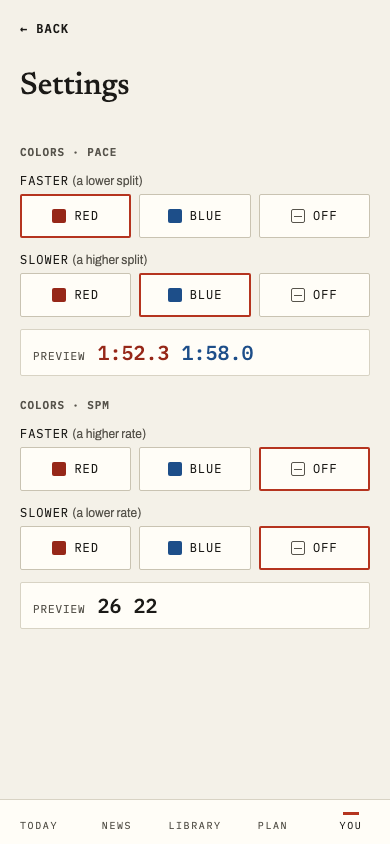
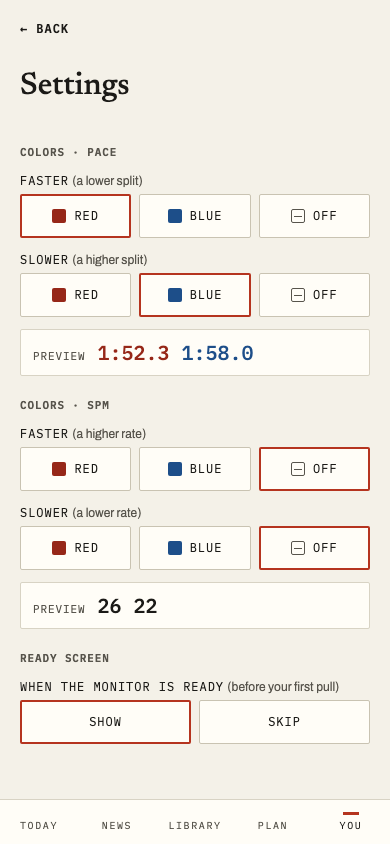
Task 6b: Just Row's e2e legs, the design assertion, and the recaptured settings screen
Three Just Row legs, all on motionless fixtures for the reason
`connected.spec.ts`'s RN block measured: a rowing frame opens the run, and an
open run renders the surface whatever the setting says.

The third is Gate 0 ruling 2 in a real browser. One WAITTOBEGIN frame arms the
frame watchdog and carries distance 0, so no run opens; the silence after it
crosses the 2500 ms threshold, which is `lost` at phase ready. Removing the
guard makes exactly that leg fail, and it passes again when restored.

`design.spec.ts` gains its own assertion for the READY SCREEN group rather
than relying on the block's page-wide sweeps. The sweeps do cover the new
control, but neither would notice it going missing, and the block's colour
assertions key on the "Pace slower color" group by name — so "it extends for
free" was too strong, and this is the honest version.

`you-settings-colors.png` recaptured with the new section.

Claude-Session: https://claude.ai/code/session_016fUCCnZbTuwB5r6vkikG9J

Changed region(s): [[0.0308, 0.7701, 0.8923, 0.8934]]

diff --git a/app/e2e/justrow.spec.ts b/app/e2e/justrow.spec.ts
@@ -594,3 +594,128 @@ test.describe("Just Row: standing in for a plan session", () => {
     await expect(page.locator("a.plan-row-done")).toHaveCount(1);
   });
 });
+
+/**
+ * Phase RN — the ready screen becomes a preference, and Gate 0's ruling 2
+ * (spec `2026-09-09-ready-card-preference-design.md`, CLOSED 2026-09-09).
+ *
+ * NO MOTION IN EITHER FIXTURE BELOW, and it is what makes the assertions
+ * mean anything. A rowing frame opens the run, and an open run renders the
+ * surface regardless of the setting — `connected.spec.ts`'s own RN block
+ * carries the measurement that proved it (three legs passed with the store's
+ * `setItem` deleted, on a streaming fixture).
+ */
+test.describe("Just Row: the ready screen is a preference (Phase RN)", () => {
+  /** Connects, arms, and then says nothing further. */
+  async function injectSilentFake(page: Page): Promise<void> {
+    await page.addInitScript(
+      ({ program }) => {
+        window.__pm5FakeScript__ = {
+          program,
+          events: [],
+          deviceName: "PM5 e2e-justrow",
+        };
+      },
+      { program: FIXTURE_PROGRAM },
+    );
+  }
+
+  /**
+   * One WAITTOBEGIN frame, then silence. The frame arms the frame watchdog —
+   * its arming rule is the first valid 0x0031 after connect — and carries
+   * distance 0, so no run opens. The silence that follows crosses the
+   * 2500 ms threshold, which `deriveLink` reads as `lost` at phase `ready`.
+   * This is the state ruling 2 exists for: the link gone BEFORE the first
+   * pull, with nothing under way.
+   */
+  async function injectArmedThenSilentFake(page: Page): Promise<void> {
+    await page.addInitScript(
+      ({ program }) => {
+        window.__pm5FakeScript__ = {
+          program,
+          deviceName: "PM5 e2e-justrow",
+          events: [
+            {
+              atMs: 1000,
+              kind: "status",
+              workoutState: 1,
+              elapsedSeconds: 0,
+              distanceMeters: 0,
+              spm: 0,
+              currentSplit: 0,
+              heartRateBpm: null,
+              programIntervalIndex: 0,
+            },
+          ],
+        };
+      },
+      { program: FIXTURE_PROGRAM },
+    );
+  }
+
+  async function chooseReadyScreen(
+    page: Page,
+    option: "SHOW" | "SKIP",
+    email: string,
+  ): Promise<void> {
+    await signInViaBackdoor(page, { email, name: "Just Row RN Tester" });
+    await page.goto("/you/settings");
+    const group = page.getByRole("radiogroup", { name: "Ready screen" });
+    await expect(group).toBeVisible();
+    await group.getByRole("radio", { name: option, exact: true }).click();
+    await expect(
+      group.getByRole("radio", { name: option, exact: true }),
+    ).toHaveAttribute("aria-checked", "true");
+  }
+
+  test("SKIP hands a free row straight to the numbers", async ({ page }) => {
+    await injectSilentFake(page);
+    await chooseReadyScreen(page, "SKIP", "rn-jr-skip@e2e.test");
+    await page.goto("/justrow");
+    await page.getByRole("button", { name: "Connect" }).click();
+
+    await expect(page.getByRole("button", { name: "End session" })).toBeVisible(
+      { timeout: 20_000 },
+    );
+    await expect(
+      page.getByRole("heading", { name: "Ready when you pull" }),
+    ).toHaveCount(0);
+  });
+
+  test("SHOW keeps the ready card, so SKIP is the setting and not the fixture", async ({
+    page,
+  }) => {
+    await injectSilentFake(page);
+    await chooseReadyScreen(page, "SHOW", "rn-jr-show@e2e.test");
+    await page.goto("/justrow");
+    await page.getByRole("button", { name: "Connect" }).click();
+
+    await expect(
+      page.getByRole("heading", { name: "Ready when you pull" }),
+    ).toBeVisible({ timeout: 20_000 });
+    await expect(
+      page.getByRole("button", { name: "Show me the numbers" }),
+    ).toBeVisible();
+  });
+
+  /**
+   * GATE 0 RULING 2, in a real browser. Without the link guard this lands on
+   * the surface's LOST banner with only a two-tap End, and the rower loses
+   * the reconnect the pre-row screen exists to offer.
+   */
+  test("SKIP still yields to Try again when the link goes before the first pull", async ({
+    page,
+  }) => {
+    await injectArmedThenSilentFake(page);
+    await chooseReadyScreen(page, "SKIP", "rn-jr-lost@e2e.test");
+    await page.goto("/justrow");
+    await page.getByRole("button", { name: "Connect" }).click();
+
+    await expect(page.getByRole("button", { name: "Try again" })).toBeVisible({
+      timeout: 20_000,
+    });
+    await expect(page.getByRole("button", { name: "End session" })).toHaveCount(
+      0,
+    );
+  });
+});

diff --git a/app/e2e/design.spec.ts b/app/e2e/design.spec.ts
@@ -4416,6 +4416,43 @@ test.describe("settings screen (judged colours)", () => {
     await assertNoA11yViolations(page);
   });
 
+  /**
+   * Phase RN: the READY SCREEN group. The two sweeps above (tap targets and
+   * a11y) run over the whole page and so already cover this control — but
+   * neither would notice it going MISSING, and the block's colour assertions
+   * key on the "Pace slower color" group by name. So the new group gets its
+   * own structural assertion rather than riding the sweeps, which is the
+   * honest version of "it extends for free".
+   */
+  test("the ready screen group is present, checked on SHOW, and shares the option chrome", async ({
+    page,
+  }) => {
+    const group = page.getByRole("radiogroup", { name: "Ready screen" });
+    await expect(group).toBeVisible();
+    const show = group.getByRole("radio", { name: "SHOW", exact: true });
+    const skip = group.getByRole("radio", { name: "SKIP", exact: true });
+    await expect(show).toHaveAttribute("aria-checked", "true");
+    await expect(skip).toHaveAttribute("aria-checked", "false");
+
+    // The same painted chrome the colour options use, which is the point of
+    // appending `.setting-*` to their rules rather than writing new ones:
+    // 2px --accent when checked, 1px --rule-3 at rest. Same numbers as the
+    // block above, and they come from `index.css`'s own computed table.
+    const border = (locator: typeof show) =>
+      locator.evaluate((el) => {
+        const cs = getComputedStyle(el);
+        return { width: cs.borderTopWidth, color: cs.borderTopColor };
+      });
+    expect(await border(show)).toStrictEqual({
+      width: "2px",
+      color: "rgb(181, 52, 31)", // --accent, 5.94:1 on --surface (>=3:1)
+    });
+    expect(await border(skip)).toStrictEqual({
+      width: "1px",
+      color: "rgb(201, 195, 178)", // --rule-3, decoration
+    });
+  });
+
   test("the checked option is an accent border, the resting one a quiet rule", async ({
     page,
   }) => {
